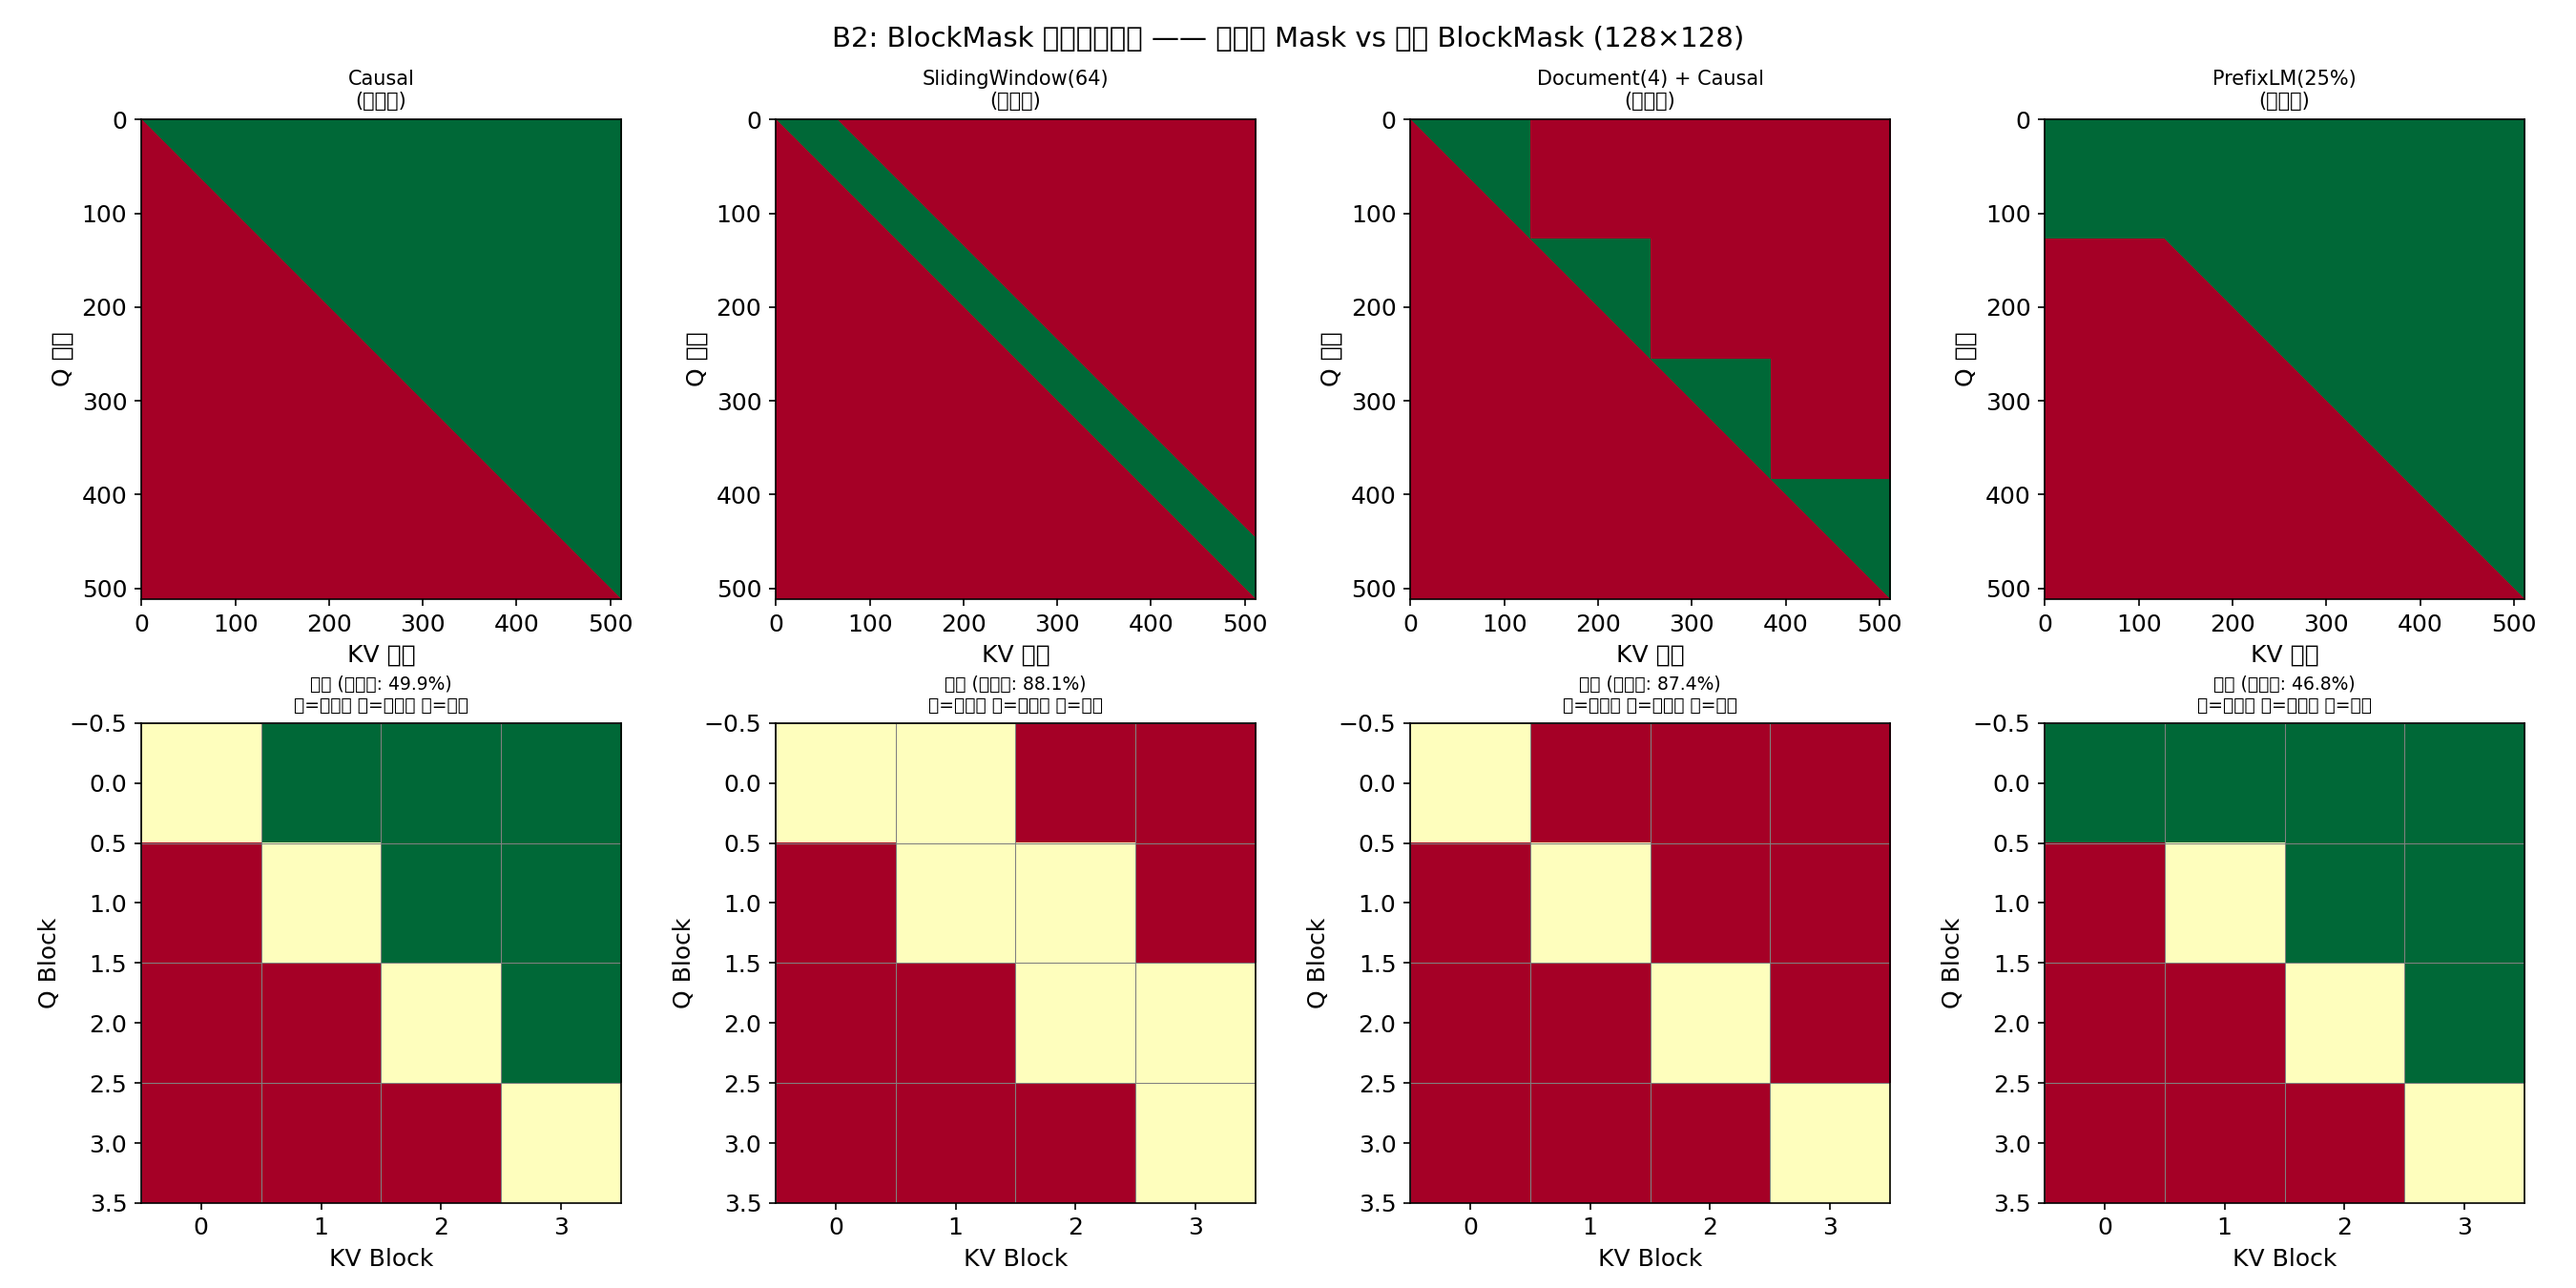
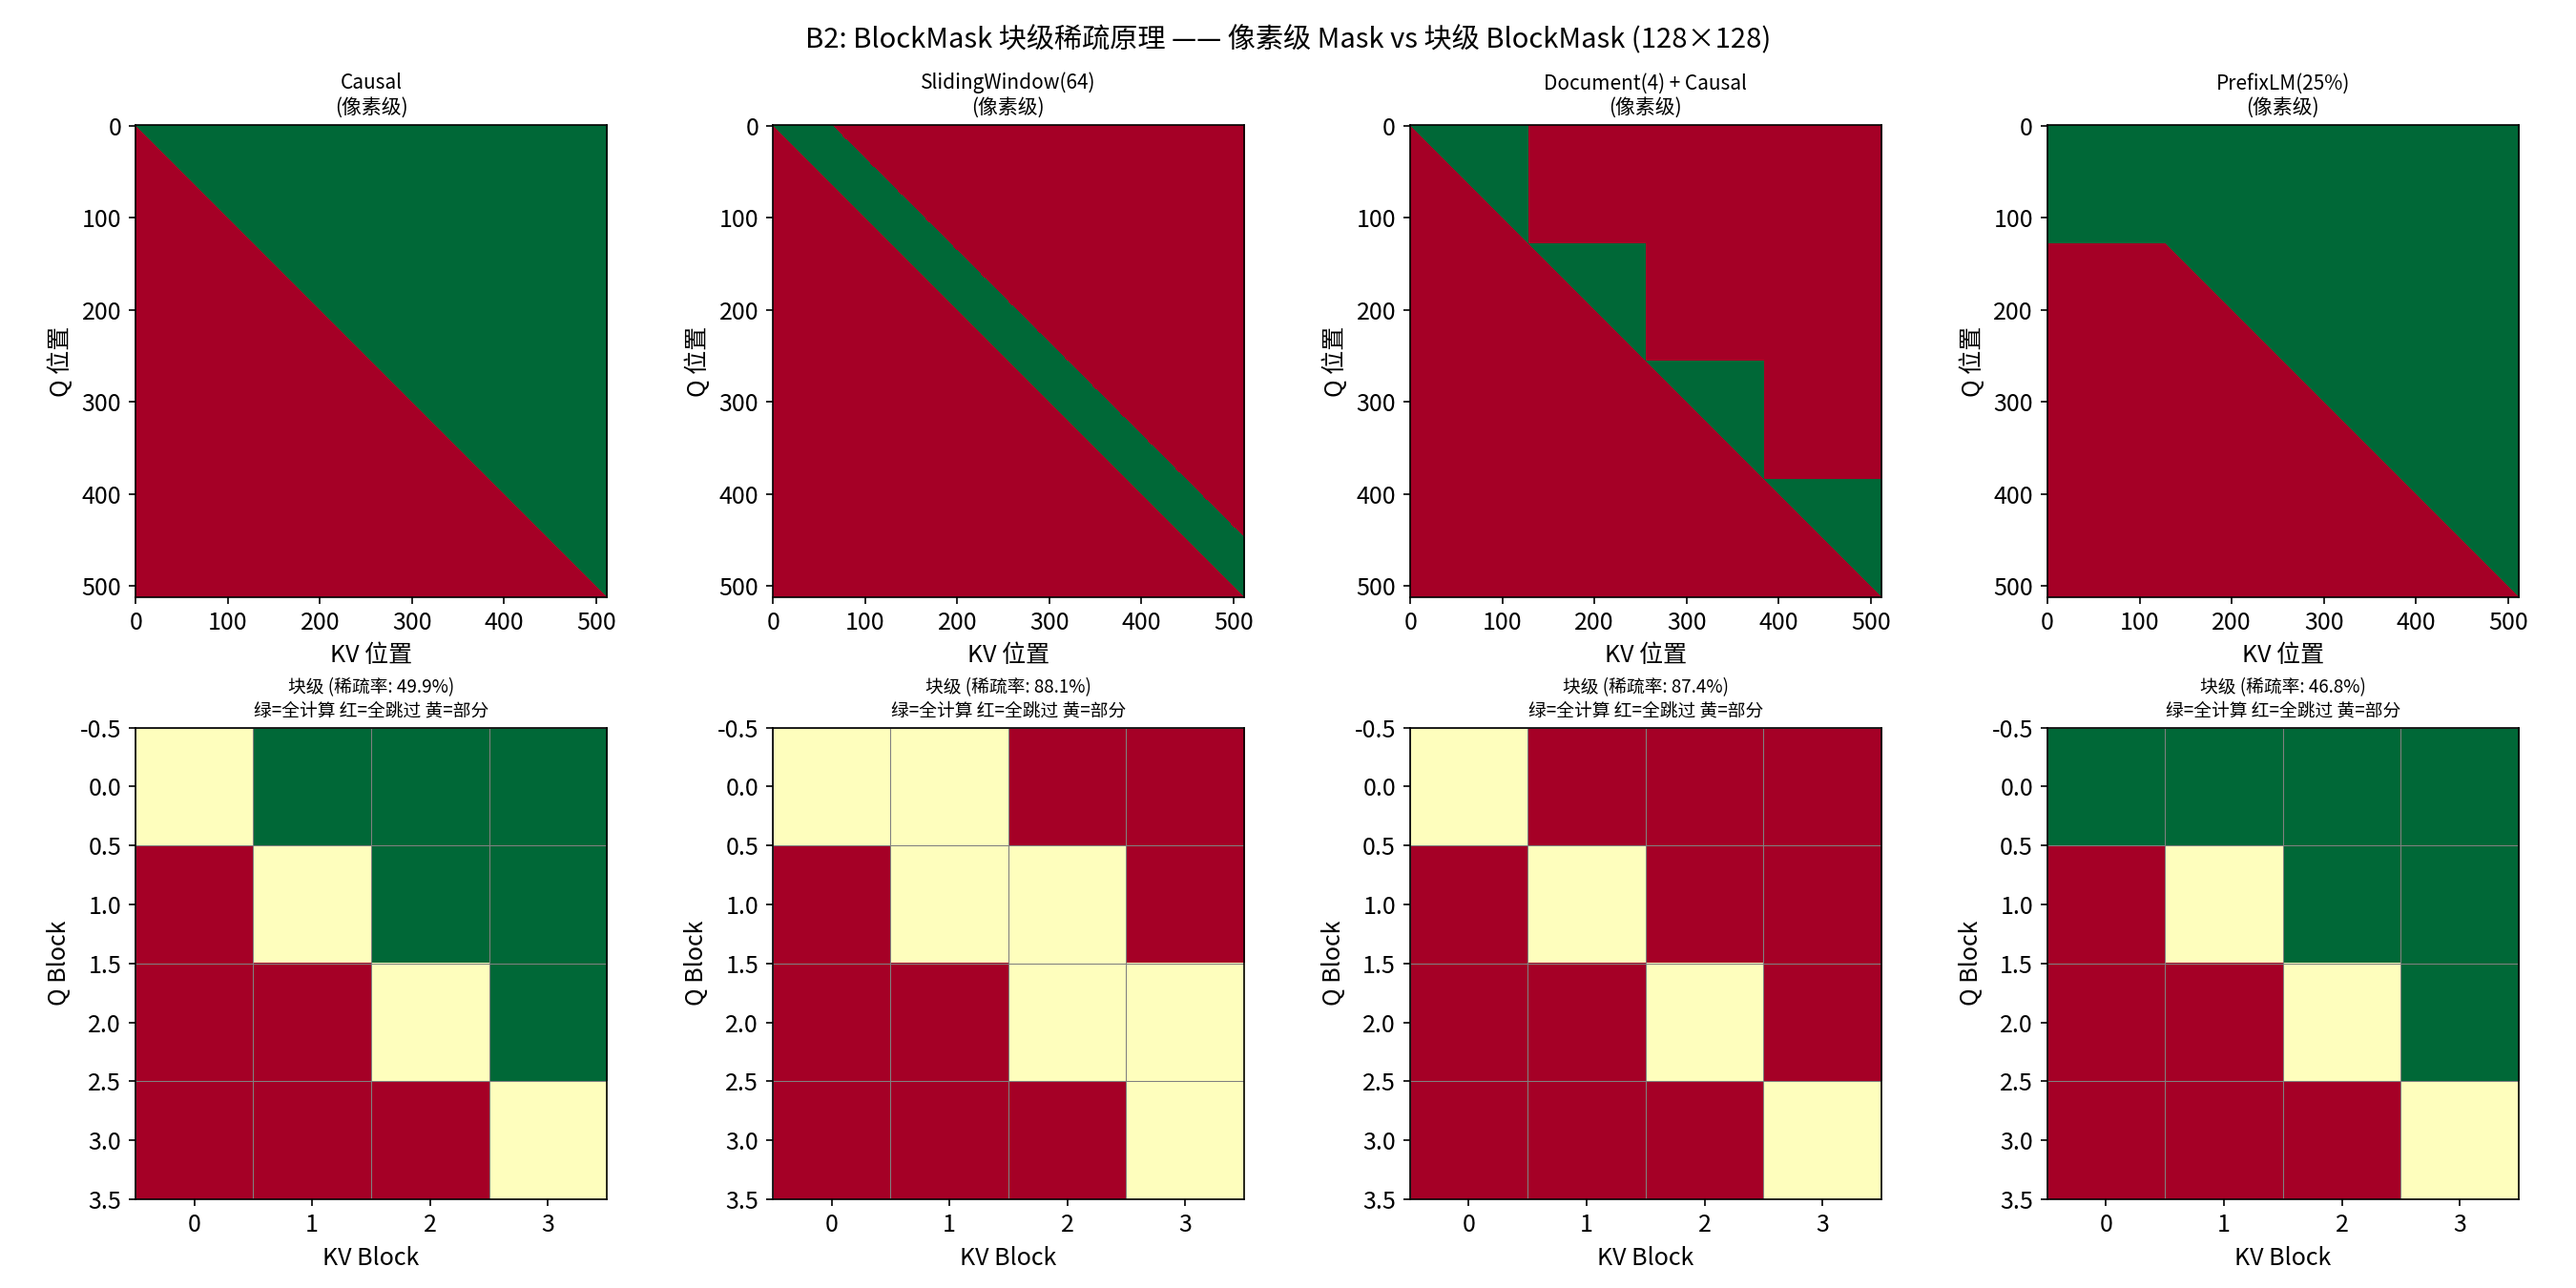
fix: 修复图表中文显示为方块的问题，安装 Noto Sans CJK SC 字体重新生成

diff --git a/flexatten_deep_dive.py b/flexatten_deep_dive.py
@@ -22,6 +22,8 @@ from pathlib import Path
 
 plt.rcParams['font.size'] = 12
 plt.rcParams['figure.dpi'] = 150
+plt.rcParams['font.family'] = ['Noto Sans CJK SC', 'DejaVu Sans']
+plt.rcParams['axes.unicode_minus'] = False
 
 device = "cuda"
 dtype = torch.float16
